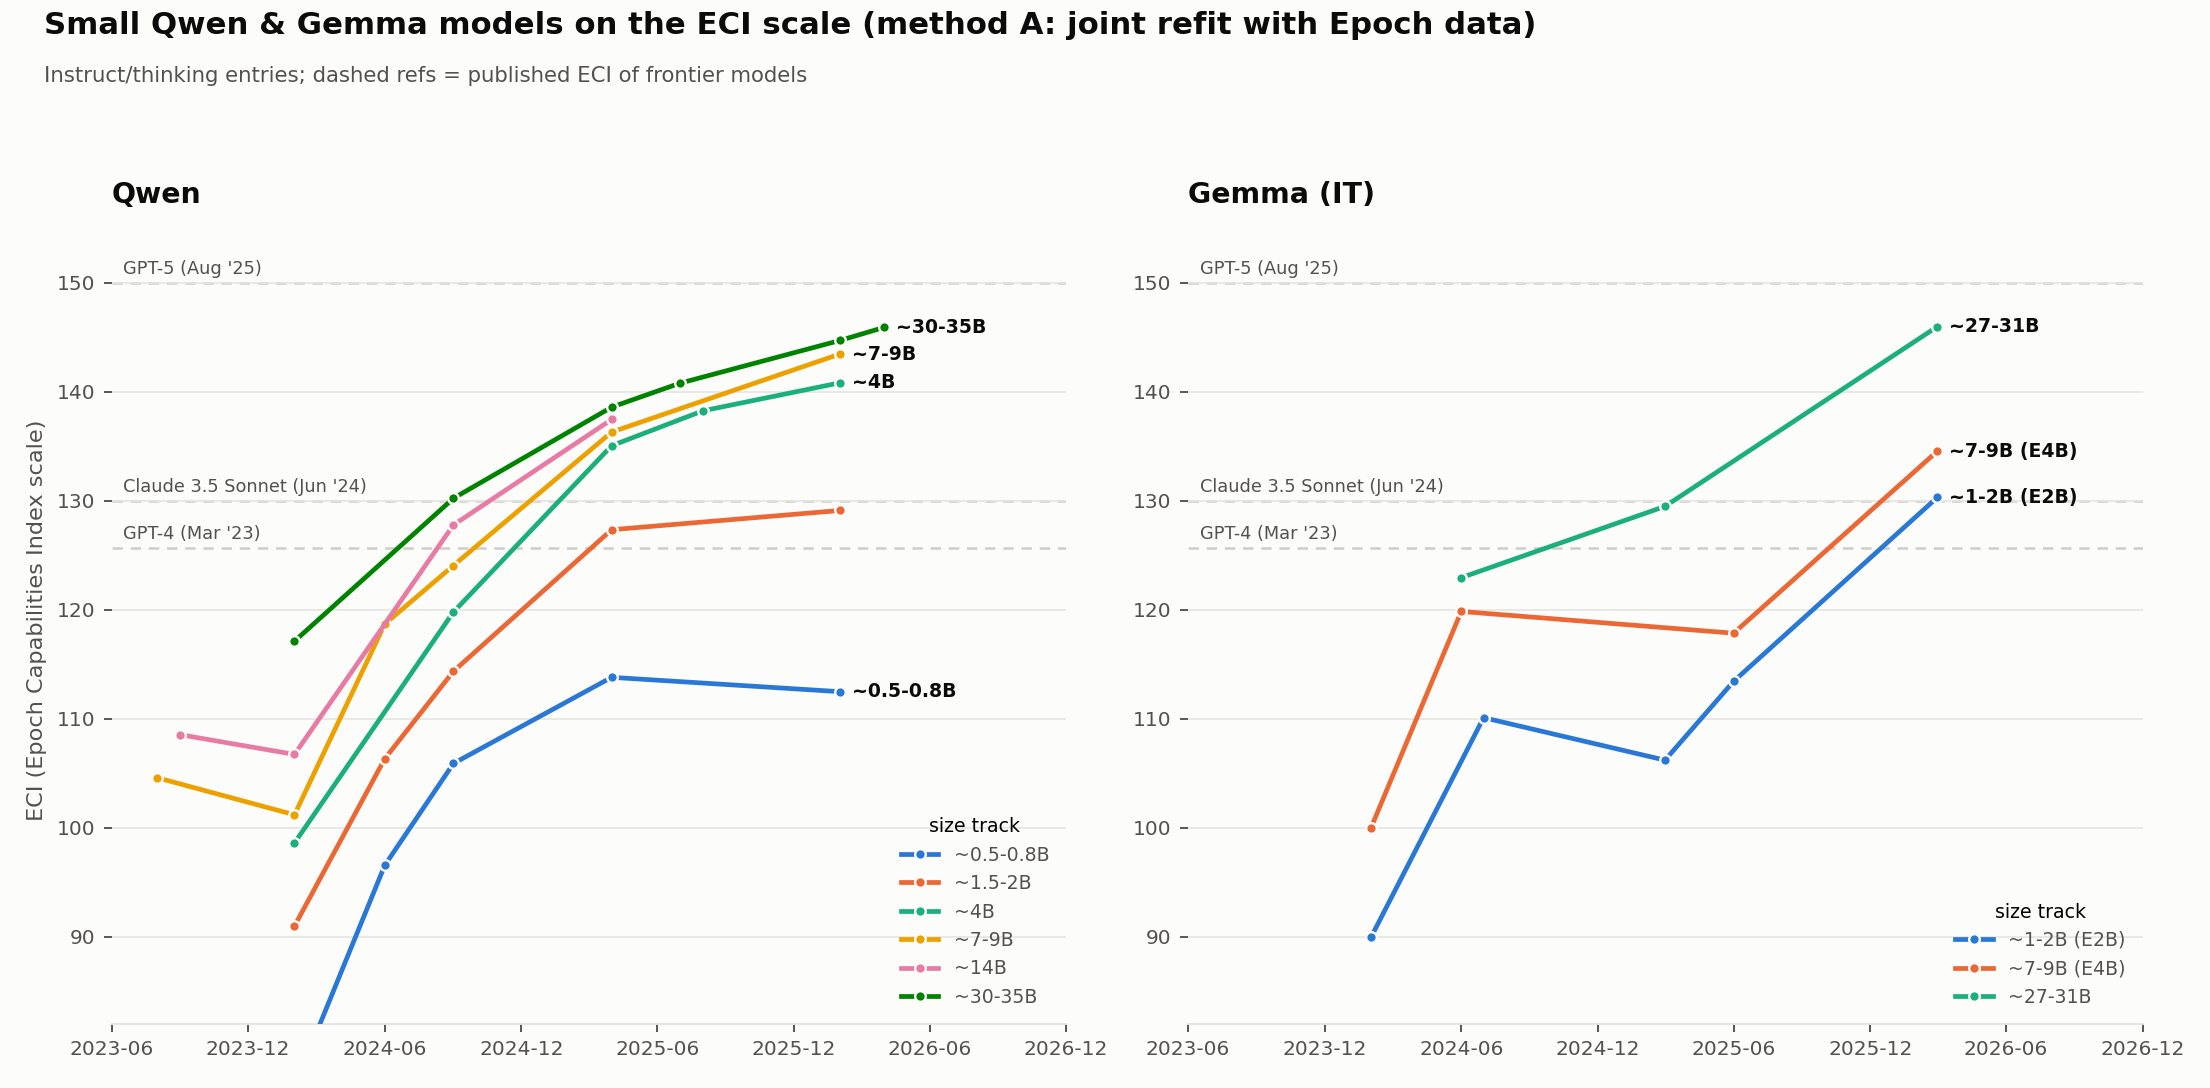
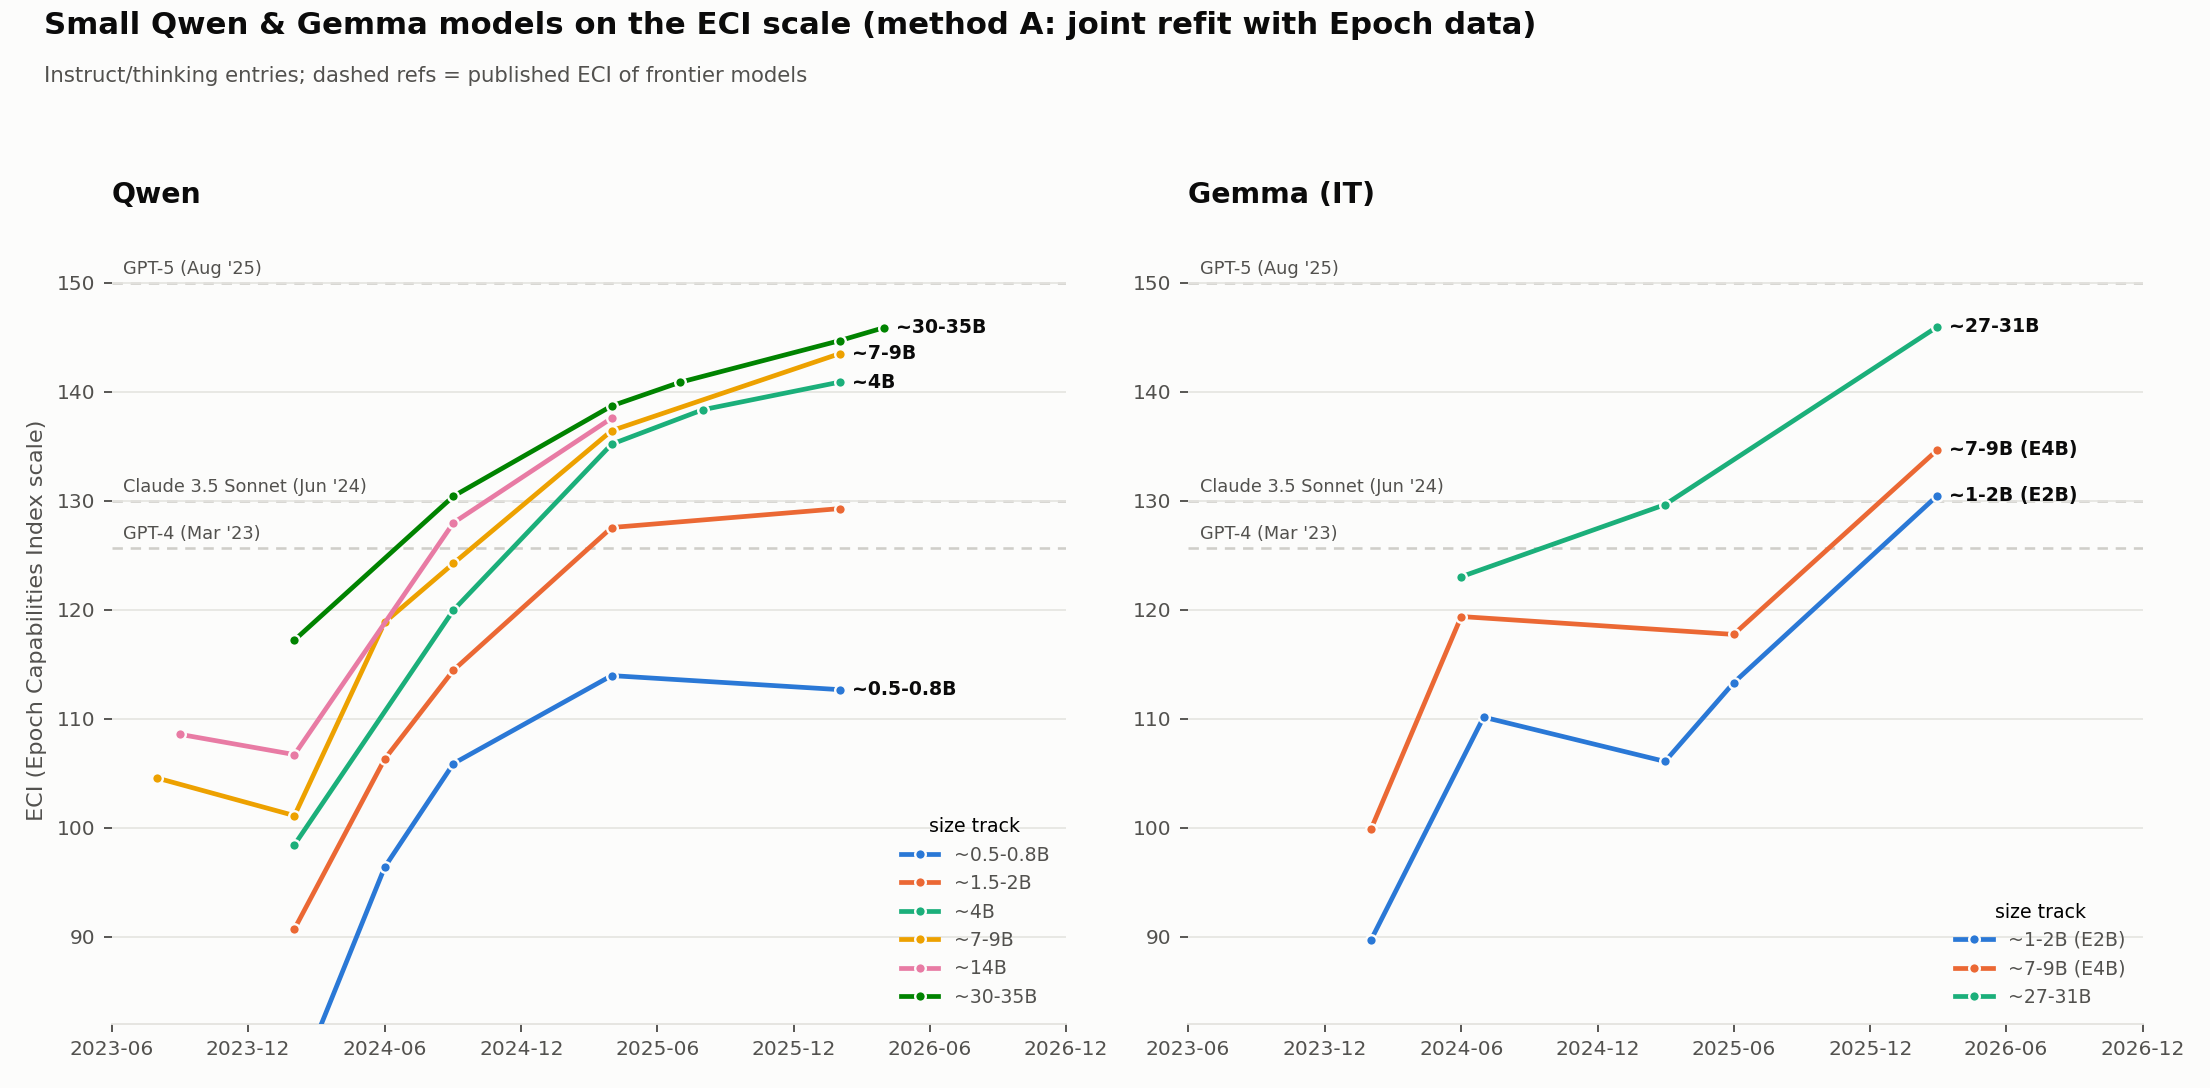
Fix two mis-specified bridge nodes
Epoch's display names drop the base/instruct distinction our entry
convention depends on, and two bridges were matched to the wrong variant:

  Gemma 2 27B  Epoch's node is purely gemma-2-27b-it, but it was bridged
               to our PT entry.
  Gemma 2 9B   genuinely pools base and instruct (2 obs gemma-2-9b:
               PIQA/GSM8K; 4 obs gemma-2-9b-it: GPQA/MATH/AIME/MMLU), and
               was likewise bridged to PT.

Both now map to the IT entries. These were the two worst residuals in the
whole validation, with the sign you would predict -- instruction tuning is
worth a median +11 ECI across our matched Gemma pairs, so pairing Epoch's
instruct-derived value against our PT-only fit understated both.

  Gemma 2 9B   residual  -6.5 -> +0.3
  Gemma 2 27B  residual  -6.9 -> +0.9
  mean |residual| 3.26 -> 1.71, max 6.89 -> 3.70

The remaining six bridges move by <=0.1, so this is a targeted correction
rather than a rescale artifact. Headline numbers hold: method A shifts by
-0.01 on average (max 1.19) and the tier gap goes 3.46 -> 3.30 ECI/yr.
Method C moves more (mean -2.26) because its affine map is built purely
from the bridges, and its fit improves accordingly (r 0.969 -> 0.987).
Method B is untouched, as expected -- it never uses BRIDGE.

BRIDGE moves to fitlib.py, having been duplicated in two scripts.
Sensitivity table regenerated against the new baseline; conclusions
unchanged (largest gap shift still 0.14 ECI/yr).

diff --git a/scripts/add_oll_models.py b/scripts/add_oll_models.py
@@ -1,0 +1,129 @@
+#!/usr/bin/env python3
+"""Append cross-family small models from the Open LLM Leaderboard to the workbook.
+
+Why: our 2025+ small entries rest almost entirely on family-scoped vendor
+instruments (`Qwen::*`, `Gemma::*`), so the low end of the scale is calibrated
+by Qwen and Gemma alone. OLL v2 ran one uniform harness over thousands of
+models, including the sub-2B tier, on six instruments already present in our
+fit -- so these models connect without introducing any new instrument-identity
+assumptions.
+
+Adds SmolLM, OLMo, Llama and Phi (official-provider uploads only, <=35B). Writes
+a new "OLL cross-family" sheet; the Qwen/Gemma "OLL scores" sheet is untouched.
+
+    python scripts/add_oll_models.py          # run from anywhere
+
+Caveats carried into the sheet's notes column:
+  - OLL v2 scores are the leaderboard's NORMALIZED values, not raw accuracy, so
+    they are the same instruments as the existing OLLv2:* rows and must not be
+    merged with any vendor-reported GPQA/MMLU-Pro/BBH number.
+  - OLL froze 2025-03-13, so nothing here postdates that. This de-biases the
+    2023-2024 span of the trend, not its most recent points.
+  - Where a model was run at more than one precision the rows are kept and
+    prep_obs.py's duplicates->max rule picks one, matching how the existing
+    sheet handles the Qwen2.5-0.5B bfloat16/float16 split.
+"""
+import re
+from pathlib import Path
+from urllib.request import urlopen
+
+import pandas as pd
+
+ROOT = Path(__file__).resolve().parent.parent
+XLSX = ROOT / "data" / "qwen_gemma_benchmarks.xlsx"
+RAW = ROOT / "data" / "raw" / "oll_contents.parquet"
+URL = "https://huggingface.co/api/datasets/open-llm-leaderboard/contents/parquet/default/train/0.parquet"
+SHEET = "OLL cross-family"
+SOURCE = ("Open LLM Leaderboard v2 (HF dataset open-llm-leaderboard/contents), "
+          "Official Providers only; normalized scores per the leaderboard's own "
+          "aggregation; retrieved 2026-08-11")
+
+# org -> (family label, name filter) so that e.g. microsoft/DialoGPT is not Phi
+ORGS = {
+    "HuggingFaceTB": ("SmolLM", r"^SmolLM"),
+    "allenai": ("OLMo", r"^OLMo"),
+    "meta-llama": ("Llama", r"Llama"),
+    "microsoft": ("Phi", r"^phi|^Phi"),
+}
+
+# OLL v2 column -> instrument name, matching the existing "OLL scores" sheet.
+BENCHMARKS = {
+    "IFEval": "OLLv2: IFEval",
+    "BBH": "OLLv2: BBH",
+    "MATH Lvl 5": "OLLv2: MATH Lvl 5",
+    "GPQA": "OLLv2: GPQA",
+    "MUSR": "OLLv2: MUSR",
+    "MMLU-PRO": "OLLv2: MMLU-PRO",
+}
+
+GENERATIONS = [
+    (r"^SmolLM2", "SmolLM2"), (r"^SmolLM3", "SmolLM3"), (r"^SmolLM", "SmolLM"),
+    (r"^OLMoE", "OLMoE"), (r"^OLMo-?2", "OLMo 2"), (r"^OLMo", "OLMo"),
+    (r"Llama-2", "Llama 2"), (r"Llama-3\.1", "Llama 3.1"), (r"Llama-3\.2", "Llama 3.2"),
+    (r"Llama-3\.3", "Llama 3.3"), (r"Llama-3", "Llama 3"),
+    (r"^Phi-4|^phi-4", "Phi-4"), (r"^Phi-3\.5", "Phi-3.5"), (r"^Phi-3", "Phi-3"),
+    (r"^phi-2", "Phi-2"), (r"^phi-1_5", "Phi-1.5"), (r"^phi-1", "Phi-1"),
+]
+
+INSTRUCT = re.compile(r"instruct|chat|-it$|sft|dpo|zephyr|tulu", re.I)
+
+
+def generation(name):
+    for pat, label in GENERATIONS:
+        if re.search(pat, name):
+            return label
+    return name
+
+
+def main():
+    if not RAW.exists():
+        RAW.parent.mkdir(parents=True, exist_ok=True)
+        print(f"downloading {URL}")
+        RAW.write_bytes(urlopen(URL).read())
+    d = pd.read_parquet(RAW)
+
+    d = d[d["Official Providers"] == True].copy()  # noqa: E712
+    d["org"] = d.fullname.str.split("/").str[0]
+    d["name"] = d.fullname.str.split("/").str[-1]
+    keep = []
+    for org, (fam, pat) in ORGS.items():
+        s = d[(d.org == org) & d.name.str.contains(pat, regex=True, na=False)].copy()
+        s["Family"] = fam
+        keep.append(s)
+    d = pd.concat(keep, ignore_index=True)
+    d = d[(d["#Params (B)"] > 0) & (d["#Params (B)"] <= 35)]
+
+    rows = []
+    for rec in d.to_dict("records"):
+        name = rec["name"]
+        rel = pd.to_datetime(rec.get("Upload To Hub Date"), errors="coerce")
+        common = {
+            "Family": rec["Family"], "Generation": generation(name), "Model": name,
+            "Params (B)": rec["#Params (B)"],
+            "Architecture": "MoE" if rec.get("MoE") else "Dense",
+            "Release": rel.strftime("%Y-%m") if pd.notna(rel) else "",
+            "Variant / mode": "Instruct/chat" if INSTRUCT.search(name) else "Pretrained (PT)",
+            "Eval config / notes": f"normalized 0-100; {rec['Precision']}",
+            "Source": SOURCE,
+        }
+        for col, bench in BENCHMARKS.items():
+            if pd.isna(rec.get(col)):
+                continue
+            rows.append({**common, "Benchmark": bench, "Score": float(rec[col])})
+    out = pd.DataFrame(rows)[["Family", "Generation", "Model", "Params (B)", "Architecture",
+                              "Release", "Variant / mode", "Benchmark",
+                              "Eval config / notes", "Score", "Source"]]
+
+    with pd.ExcelWriter(XLSX, engine="openpyxl", mode="a",
+                        if_sheet_exists="replace") as w:
+        out.to_excel(w, sheet_name=SHEET, index=False)
+
+    print(f"wrote sheet '{SHEET}': {len(out)} rows, {out.Model.nunique()} models")
+    print(out.groupby(["Family", "Variant / mode"]).Model.nunique().to_string())
+    sub2 = out[out["Params (B)"] <= 2.1]
+    print(f"\nsub-2B models added: {sub2.Model.nunique()}")
+    print(f"release range: {out.Release.replace('', pd.NA).min()} -> {out.Release.max()}")
+
+
+if __name__ == "__main__":
+    main()

diff --git a/scripts/fitlib.py b/scripts/fitlib.py
@@ -15,6 +15,26 @@ RNG = np.random.default_rng(42)
 CLIP = 1e-3
 REG = 0.1
 
+# Epoch node -> our entry. Bridged on Epoch's `model_version` column, NOT on the
+# display name: Epoch's names silently drop the base/instruct distinction that
+# our entry convention depends on. 14 of their 222 nodes mix base and instruct
+# observations under one name, and instruction tuning is worth a median +11 ECI
+# in our own fit, so a mismatch here is worth several points.
+#   Gemma 2 27B  -> Epoch's node is purely gemma-2-27b-it, so it maps to our IT
+#                   entry despite the unqualified display name.
+#   Gemma 2 9B   -> genuinely pooled, but instruct-dominant (4 of 6 obs:
+#                   GPQA/MATH/AIME/MMLU vs base PIQA/GSM8K), so likewise IT.
+BRIDGE = {
+    "Gemma 2B": "Gemma 2B [Pretrained (PT)]",
+    "Gemma 7B": "Gemma 7B [Pretrained (PT)]",
+    "Gemma 2 9B": "Gemma 2 9B IT [Instruction-tuned (IT)]",
+    "Gemma 2 27B": "Gemma 2 27B IT [Instruction-tuned (IT)]",
+    "Gemma 3 27B": "Gemma 3 27B IT [Instruction-tuned (IT)]",
+    "Gemma 4 31B IT": "Gemma 4 31B [IT, Thinking mode]",
+    "Qwen 3.6 35B-A3B": "Qwen3.6-35B-A3B [Thinking (default)]",
+    "Qwen 3.5 Flash (hosted 35B-A3B)": "Qwen3.5-35B-A3B [Thinking (default)]",
+}
+
 
 def sigmoid(x):
     return 1.0 / (1.0 + np.exp(-np.clip(x, -500, 500)))

diff --git a/scripts/fit_methods.py b/scripts/fit_methods.py
@@ -22,7 +22,7 @@ import pandas as pd
 from scipy.optimize import least_squares, minimize_scalar
 
 sys.path.insert(0, str(Path(__file__).resolve().parent))
-from fitlib import CLIP, affine_from_pairs, bootstrap_caps, fit_raw, sigmoid
+from fitlib import BRIDGE, CLIP, affine_from_pairs, bootstrap_caps, fit_raw, sigmoid
 
 # ---------------------------------------------------------------- load data
 ours = pd.read_csv("obs_ours.csv")
@@ -30,16 +30,6 @@ pub = pd.read_csv("eci_published.csv").set_index("model")["eci"].to_dict()
 frozen = pd.read_csv("edi_frozen.csv").set_index("benchmark")
 epoch_sub = pd.read_csv("eci_benchmarks.csv")
 
-BRIDGE = {
-    "Gemma 2B": "Gemma 2B [Pretrained (PT)]",
-    "Gemma 7B": "Gemma 7B [Pretrained (PT)]",
-    "Gemma 2 9B": "Gemma 2 9B [Pretrained (PT)]",
-    "Gemma 2 27B": "Gemma 2 27B [Pretrained (PT)]",
-    "Gemma 3 27B": "Gemma 3 27B IT [Instruction-tuned (IT)]",
-    "Gemma 4 31B IT": "Gemma 4 31B [IT, Thinking mode]",
-    "Qwen 3.6 35B-A3B": "Qwen3.6-35B-A3B [Thinking (default)]",
-    "Qwen 3.5 Flash (hosted 35B-A3B)": "Qwen3.5-35B-A3B [Thinking (default)]",
-}
 BRIDGE_INV = {v: k for k, v in BRIDGE.items()}
 
 # ================================================================ METHOD A

diff --git a/scripts/sensitivity.py b/scripts/sensitivity.py
@@ -24,20 +24,10 @@ import pandas as pd
 
 sys.path.insert(0, str(Path(__file__).resolve().parent))
 import fitlib
-from fitlib import affine_from_pairs, fit_raw
+from fitlib import BRIDGE, affine_from_pairs, fit_raw
 
 OUT = Path(__file__).resolve().parent.parent / "docs" / "sensitivity.md"
 
-BRIDGE = {
-    "Gemma 2B": "Gemma 2B [Pretrained (PT)]",
-    "Gemma 7B": "Gemma 7B [Pretrained (PT)]",
-    "Gemma 2 9B": "Gemma 2 9B [Pretrained (PT)]",
-    "Gemma 2 27B": "Gemma 2 27B [Pretrained (PT)]",
-    "Gemma 3 27B": "Gemma 3 27B IT [Instruction-tuned (IT)]",
-    "Gemma 4 31B IT": "Gemma 4 31B [IT, Thinking mode]",
-    "Qwen 3.6 35B-A3B": "Qwen3.6-35B-A3B [Thinking (default)]",
-    "Qwen 3.5 Flash (hosted 35B-A3B)": "Qwen3.5-35B-A3B [Thinking (default)]",
-}
 
 ours = pd.read_csv("obs_ours.csv")
 pub = pd.read_csv("eci_published.csv").set_index("model")["eci"].to_dict()

diff --git a/docs/sensitivity.md b/docs/sensitivity.md
@@ -3,22 +3,22 @@
 Method A refit with each flagged merge from `docs/connectivity_audit.md`
 reversed. `mean|d|` / `max|d|` are shifts in fitted ECI across our entries;
 `tier gap` is the headline quantity — how many ECI/yr faster the >10B tier
-improves than the <=2B tier (baseline **3.46**). A variant that barely
+improves than the <=2B tier (baseline **3.30**). A variant that barely
 moves the gap is an assumption the conclusion does not rest on.
 
 | variant | obs moved | mean\|d\| | max\|d\| | worst-moved entry | tier gap | gap shift |
 |---|---:|---:|---:|---|---:|---:|
-| `gemma-arcc-split` | 5 | 0.05 | 1.33 | Gemma 2B IT [Instruction-tuned (IT)] (-1.3) | 3.33 | -0.12 |
-| `gemma-gsm8k-split` | 5 | 0.08 | 1.27 | Gemma 2B IT [Instruction-tuned (IT)] (+1.3) | 3.56 | +0.10 |
-| `livebench-split` | 14 | 0.12 | 1.17 | Qwen3-0.6B [Non-thinking mode] (-1.2) | 3.60 | +0.15 |
-| `qwen-gsm8k-split` | 3 | 0.05 | 1.06 | Qwen-1.8B-Chat [Instruct/chat] (-1.1) | 3.42 | -0.03 |
-| `hmmt-split` | 4 | 0.07 | 0.53 | Qwen3.5-2B [Thinking (default)] (-0.5) | 3.53 | +0.07 |
-| `gemma-winogrande-split` | 8 | 0.05 | 0.45 | Gemma 1.1 7B IT [Instruction-tuned (IT)] (-0.5) | 3.52 | +0.06 |
-| `arenahard-split` | 14 | 0.07 | 0.38 | Qwen2.5-32B-Instruct [Instruct/chat] (+0.4) | 3.43 | -0.03 |
-| `qwen-mmlu-split` | 3 | 0.02 | 0.36 | Qwen-14B-Chat [Instruct/chat] (-0.4) | 3.51 | +0.06 |
-| `gpqa-split` | 7 | 0.07 | 0.28 | Qwen2-7B-Instruct [Instruct/chat] (+0.3) | 3.44 | -0.02 |
-| `lcb-v6-merge` | 6 | 0.03 | 0.26 | Qwen3.5-4B [Thinking (default)] (-0.3) | 3.47 | +0.01 |
-| `gemma-hellaswag-split` | 5 | 0.01 | 0.19 | Gemma 2B [Pretrained (PT)] (+0.2) | 3.46 | +0.00 |
+| `gemma-arcc-split` | 5 | 0.05 | 1.35 | Gemma 2B IT [Instruction-tuned (IT)] (-1.3) | 3.17 | -0.12 |
+| `gemma-gsm8k-split` | 5 | 0.08 | 1.30 | Gemma 2B IT [Instruction-tuned (IT)] (+1.3) | 3.40 | +0.11 |
+| `livebench-split` | 14 | 0.11 | 1.13 | Qwen3-0.6B [Non-thinking mode] (-1.1) | 3.44 | +0.14 |
+| `qwen-gsm8k-split` | 3 | 0.05 | 1.06 | Qwen-1.8B-Chat [Instruct/chat] (-1.1) | 3.26 | -0.03 |
+| `gemma-winogrande-split` | 8 | 0.05 | 0.54 | Gemma 1.1 7B IT [Instruction-tuned (IT)] (-0.5) | 3.36 | +0.06 |
+| `hmmt-split` | 4 | 0.07 | 0.54 | Qwen3.5-2B [Thinking (default)] (-0.5) | 3.37 | +0.07 |
+| `arenahard-split` | 14 | 0.07 | 0.38 | Qwen2.5-32B-Instruct [Instruct/chat] (+0.4) | 3.27 | -0.03 |
+| `qwen-mmlu-split` | 3 | 0.02 | 0.37 | Qwen-14B-Chat [Instruct/chat] (-0.4) | 3.35 | +0.06 |
+| `gpqa-split` | 7 | 0.06 | 0.26 | Qwen2-7B-Instruct [Instruct/chat] (+0.3) | 3.29 | -0.01 |
+| `lcb-v6-merge` | 6 | 0.02 | 0.25 | Qwen3.5-4B [Thinking (default)] (-0.3) | 3.31 | +0.01 |
+| `gemma-hellaswag-split` | 5 | 0.01 | 0.19 | Gemma 2B [Pretrained (PT)] (+0.2) | 3.30 | +0.00 |
 
 ## What each variant tests
 
@@ -26,8 +26,8 @@ moves the gap is an assumption the conclusion does not rest on.
 - **`gemma-gsm8k-split`** — GSM8K (PT) shot counts differ across Gemma generations
 - **`livebench-split`** — Qwen3 report's LiveBench release date unconfirmed -> separate
 - **`qwen-gsm8k-split`** — Qwen v1 8-shot GSM8K vs later unstated
-- **`hmmt-split`** — Qwen 2507 'HMMT25' may not be the Feb'25 set -> separate
 - **`gemma-winogrande-split`** — scoring scheme differs Gemma 1/2 vs Gemma 3
+- **`hmmt-split`** — Qwen 2507 'HMMT25' may not be the Feb'25 set -> separate
 - **`arenahard-split`** — Arena-Hard version may differ across Qwen2.5/3 -> separate
 - **`qwen-mmlu-split`** — Qwen v1 explicitly 5-shot MMLU; Qwen2 unstated
 - **`gpqa-split`** — Qwen2/2.5 'GPQA' may not be Diamond -> separate instrument
